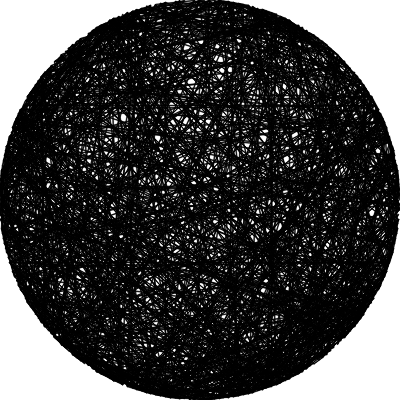
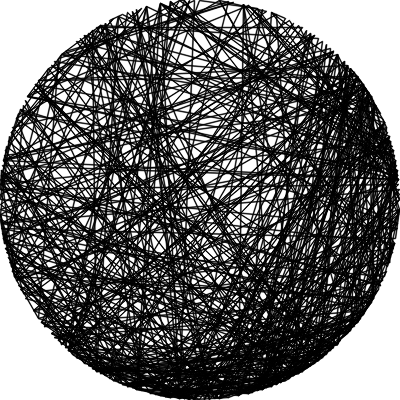
intirim

diff --git a/main.py b/main.py
@@ -15,9 +15,9 @@ start_time = time.time()
 
 
 # NUM_INDUVIDUALS MUST BE power of two
-epoch = 128
+epoch = 512
 num_individual = 256
-lines = 1000
+lines = 512
 pins = 256
 top_ratio = 2
 bottom_ratio = 8
